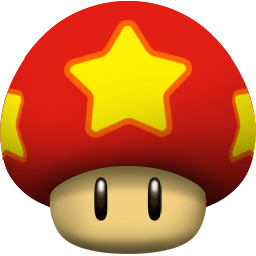
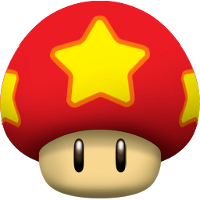
Changed size and Entity

diff --git a/Window.cpp b/Window.cpp
@@ -25,6 +25,8 @@ void Window::setup(const std::string &title) {
 void Window::create() {
     auto style = (isFullscreen ? sf::Style::Fullscreen : sf::Style::Default);
     window.create(sf::VideoMode::getDesktopMode(), windowTitle, style);
+    //Can't call getWidth here, use getProportions instead.
+    window.setView(sf::View(sf::FloatRect(0, 0, getProportions(), getHeight())));
 }
 
 void Window::destroy() {
@@ -50,7 +52,7 @@ void Window::draw() {
 
 void Window::gameLoop() {
     while (!isDone) {
-        processInput(window);
+        processInput();
         elapsed += clock.restart();
 
         for (int loops = 0; elapsed >= ms_per_update && loops < max_loops; loops++) {
@@ -64,7 +66,7 @@ void Window::gameLoop() {
 }
 
 
-void Window::processInput(sf::RenderWindow &window) {
+void Window::processInput() {
     sf::Event event;
     while (window.pollEvent(event)) {
         if (event.type == sf::Event::Closed) {
@@ -73,39 +75,25 @@ void Window::processInput(sf::RenderWindow &window) {
         } else if (event.type == sf::Event::KeyPressed && event.key.code == sf::Keyboard::F11) {
             toggleFullscreen();
         } else if (event.type == sf::Event::Resized) {
-            window.setView(sf::View(sf::FloatRect(0, 0, event.size.width, event.size.height)));
+            window.setView(sf::View(sf::FloatRect(0, 0, getProportions(), getHeight())));
         }
     }
 }
 
 
-void Window::drawSprite(sf::Sprite &sprite, sf::Vector2f size, sf::Vector2f pos, sf::Vector2f vel) {
-    size = resizeVector(size);
-    sf::Vector2u oldSize = sprite.getTexture()->getSize();
-    sprite.setScale(size.x / oldSize.x, size.y / oldSize.y);
+void Window::drawSprite(sf::Sprite &sprite, sf::Vector2f pos, sf::Vector2f vel) {
     pos.x = pos.x + vel.x * elapsed.asSeconds();
     pos.y = pos.y + vel.y * elapsed.asSeconds();
-    sprite.setPosition(resizeVector(pos));
+    sprite.setPosition(pos);
     window.draw(sprite);
 }
 
 void Window::drawEntity(Entity &entity) {
-    drawSprite(entity.getSprite(), entity.getSize(), entity.getPos(), entity.getVel());
+    drawSprite(entity.getSprite(), entity.getPos(), entity.getVel());
 }
 
 void Window::drawDrawable(sf::Drawable &drawable) {
     window.draw(drawable);
-}
-
-sf::Vector2f Window::resizeVector(const sf::Vector2f v) const {
-    sf::Vector2f r;
-    r.y = v.y * window.getSize().y / 100;
-    r.x = v.x * window.getSize().y / 100;
-    return r;
-}
-
-float Window::getProportions() const {
-    return static_cast<float>(window.getSize().x) / window.getSize().y * 100;
 }
 
 Window *Window::getInstance() {

diff --git a/Window.h b/Window.h
@@ -19,24 +19,41 @@ public:
 
     void gameLoop();
 
-    void drawSprite(sf::Sprite &sprite, sf::Vector2f size, sf::Vector2f pos, sf::Vector2f vel);
+    void drawSprite(sf::Sprite &sprite, sf::Vector2f pos, sf::Vector2f vel);
 
     void drawEntity(Entity &entity);
 
     void drawDrawable(sf::Drawable &drawable);
 
-    float getProportions() const;
-
     float getElapsed() const {
         return ms_per_update.asSeconds();
     }
 
-    sf::Vector2f resizeVector(const sf::Vector2f v) const;
+    float getScale() const {
+        return getHeight() / window.getSize().y;
+    }
+
+    static float getWidth() {
+        if (instance != nullptr) {
+            sf::Vector2u size = instance->window.getSize();
+            return getHeight() * size.x / size.y;
+        }
+        return 0;
+    }
+
+    static float getHeight() {
+        return 1000;
+    }
 
 private:
     Window();
 
     static Window *instance;
+
+    float getProportions() {
+        sf::Vector2u size = window.getSize();
+        return getHeight() * size.x / size.y;
+    }
 
     void toggleFullscreen();
 
@@ -44,7 +61,7 @@ private:
 
     void draw();
 
-    void processInput(sf::RenderWindow &window);
+    void processInput();
 
     void setup(const std::string &title);
 

diff --git a/Background.cpp b/Background.cpp
@@ -6,10 +6,9 @@
 
 Background *Background::instance = nullptr;
 
-Background::Background() : spriteSize(280, 100) {
+Background::Background() : spriteSize(2802, 1000) {
     if (!texture.loadFromFile("../Resources/background.png"))
         return;
-
     texture.setSmooth(true);
 }
 
@@ -34,15 +33,17 @@ void Background::update() {
     }
 
     // If last sprite is in on the right, the loop adds a new one.
-    while (sprites.empty() || getSpritePos(sprites.size() - 1).x + spriteSize.x <
-                              Window::getInstance()->getProportions()) {
-        sprites.push_back(sf::Sprite(texture));
+    while (sprites.empty() || getSpritePos(sprites.size() - 1).x + spriteSize.x < Window::getWidth()) {
+        sf::Sprite sprite(texture);
+        //sf::Vector2u oldSize = sprite.getTexture()->getSize();
+        //sprite.setScale(spriteSize.x / oldSize.x, spriteSize.y / oldSize.y);
+        sprites.push_back(sprite);
     }
 }
 
 void Background::draw() {
     for (auto it = sprites.begin(), end = sprites.end(); it != end; ++it) {
-        Window::getInstance()->drawSprite(*it, spriteSize, getSpritePos(it), sf::Vector2f(v, 0));
+        Window::getInstance()->drawSprite(*it, getSpritePos(it), sf::Vector2f(v, 0));
     }
 }
 

diff --git a/MainCharacter.cpp b/MainCharacter.cpp
@@ -6,13 +6,7 @@
 
 MainCharacter *MainCharacter::instance = nullptr;
 
-MainCharacter::MainCharacter() : Entity(15, 15), score(0) {
-    texture.loadFromFile("../Resources/Mushroom.png");
-    texture.setSmooth(true);
-    sprite.setTexture(texture);
-    pos.x = 10;
-    pos.y = 10;
-    log = Textbox::getInstance();
+MainCharacter::MainCharacter() : Entity("../Resources/Mushroom.png", 100, 100), score(0) {
 }
 
 void MainCharacter::update() {
@@ -20,9 +14,9 @@ void MainCharacter::update() {
     pos.y += vel.y * Window::getInstance()->getElapsed();
 
     //Borders collision
-    if (pos.y + size.y >= 100 - bottom) {
+    if (pos.y + size.y >= Window::getHeight() - bottom) {
         vel.y = 0;
-        pos.y = 100 - bottom - size.y;
+        pos.y = Window::getHeight() - bottom - size.y;
     } else if (pos.y <= top) {
         vel.y = 0;
         pos.y = top;
@@ -49,5 +43,5 @@ MainCharacter *MainCharacter::getInstance() {
 
 void MainCharacter::increaseScore() {
     score += 1;
-    log->add("You got a star. Score: " + std::to_string(score));
+    Textbox::getInstance()->add("You got a star. Score: " + std::to_string(score));
 }

diff --git a/Entity.h b/Entity.h
@@ -13,9 +13,7 @@
 
 class Entity : public Drawable {
 public:
-    Entity();
-
-    Entity(float width, float height, float x = 0, float y = 0);
+    Entity(const std::string &filename, float x = 0, float y = 0, sf::IntRect textureRect = sf::IntRect());
 
     virtual ~Entity() {};
 
@@ -23,12 +21,8 @@ public:
 
     virtual void draw() override;
 
-    const sf::Vector2f &getSize() const {
-        return size;
-    }
-
     const sf::Vector2f &getPos() const {
-        return pos;
+        return pos;//+sprite.getOrigin();
     }
 
     const sf::Vector2f &getVel() const {
@@ -42,16 +36,19 @@ public:
 protected:
     void updatePos();
 
+    sf::Texture texture;
+    sf::Sprite sprite;
     sf::Vector2f size;
     sf::Vector2f pos;
     sf::Vector2f vel;
     sf::Vector2f acc;
-    sf::Sprite sprite;
     float angle;
     float angVel;
     float angAcc;
 
 private:
+    void setTexture(const std::string &filename, sf::IntRect textureRect = sf::IntRect());
+
     static bool intersect(sf::Vector2f p0, sf::Vector2f p1, sf::Vector2f p2, sf::Vector2f p3);
 
     static int ccw(sf::Vector2f p0, sf::Vector2f p1, sf::Vector2f p2);

diff --git a/Entity.cpp b/Entity.cpp
@@ -7,13 +7,9 @@
 
 using namespace std;
 
-Entity::Entity() : angle(0), angVel(0), angAcc(0) {
-
-}
-
-Entity::Entity(float width, float height, float x, float y) : Entity() {
-    size = sf::Vector2f(width, height);
-    pos = sf::Vector2f(x, y);
+Entity::Entity(const std::string &filename, float x, float y, sf::IntRect textureRect) :
+        angle(0), angVel(0), angAcc(0), pos(x, y) {
+    setTexture(filename, textureRect);
 }
 
 void Entity::draw() {
@@ -71,4 +67,17 @@ void Entity::updatePos() {
     vel.y += acc.y * seconds;
     pos.x += vel.x * seconds;
     pos.y += vel.y * seconds;
+}
+
+void Entity::setTexture(const std::string &filename, sf::IntRect textureRect) {
+    texture.loadFromFile(filename);
+    texture.setSmooth(true);
+    sprite.setTexture(texture);
+    if (textureRect != sf::IntRect()) {
+        sprite.setTextureRect(textureRect);
+        size = sf::Vector2f(textureRect.width, textureRect.height);
+    } else {
+        sf::Vector2u textureSize = sprite.getTexture()->getSize();
+        size = sf::Vector2f(textureSize.x, textureSize.y);
+    }
 }

diff --git a/Textbox.cpp b/Textbox.cpp
@@ -24,7 +24,7 @@ void Textbox::update() {
 }
 
 void Textbox::draw() {
-    backdrop.setSize(Window::getInstance()->resizeVector(sf::Vector2f(Window::getInstance()->getProportions(), 10)));
+    backdrop.setSize(sf::Vector2f(Window::getWidth(), 100));
     Window::getInstance()->drawDrawable(backdrop);
     Window::getInstance()->drawDrawable(content);
 }
@@ -40,8 +40,10 @@ Textbox::Textbox() {
     font.loadFromFile("../Resources/FreeSerif.ttf");
     content.setFont(font);
     content.setCharacterSize(20);
+    float s = Window::getInstance()->getScale();
+    content.setScale(s, s);
     content.setColor(sf::Color::Red);
-    backdrop.setSize(sf::Vector2f(Window::getInstance()->getProportions(), 200));
+    backdrop.setSize(sf::Vector2f(Window::getWidth(), 100));
     backdrop.setFillColor(sf::Color(100, 100, 100, 100));
     backdrop.setPosition(0, 0);
 }

diff --git a/CollidableFactory.cpp b/CollidableFactory.cpp
@@ -11,9 +11,9 @@
 Collidable *CollidableFactory::createCollidable() {
     // TODO others collidable objects
     int p = rand() % 100;
-    if (p < 10)
-        return new Obstacle(Window::getInstance()->getWidth(), rand() % (100 - 30) + 10);
+    if (p < 0)
+        return new Obstacle(Window::getWidth(), rand() % ((int) Window::getHeight() - 300) + 100);
     else
-        return new Laser(Window::getInstance()->getWidth(), rand() % (100 - 30) + 10);
+        return new Laser(Window::getWidth(), rand() % ((int) Window::getHeight() - 300) + 100);
 
 }

diff --git a/Laser.cpp b/Laser.cpp
@@ -5,13 +5,9 @@
 #include "Laser.h"
 #include "Window.h"
 
-Laser::Laser(float x, float y) : Collidable(30, 5, x, y) {
-    // Shape initialization
-    texture.loadFromFile("../Resources/laser.png");
-    sprite.setTexture(texture);
-    //relVel.y = 6;
+Laser::Laser(float x, float y) : Collidable("../Resources/laser.png", x, y) {
     angVel = 0.5;
-    sprite.setOrigin(200, 0);
+    sprite.setOrigin(size.x / 2, size.y / 2);
 }
 
 void Laser::update() {

diff --git a/CollidableManager.cpp b/CollidableManager.cpp
@@ -9,7 +9,7 @@ std::list<Collidable *> CollidableManager::collidables;
 void CollidableManager::update() {
     removeCollidables();
 
-    if (collidables.empty() || collidables.back()->getPos().x < Window::getInstance()->getProportions() - 100) {
+    if (collidables.empty() || collidables.back()->getPos().x < Window::getWidth() - 1000) {
         collidables.push_back(CollidableFactory::createCollidable());
     }
 }

diff --git a/Collidable.cpp b/Collidable.cpp
@@ -7,7 +7,8 @@
 #include "Background.h"
 #include "MainCharacter.h"
 
-Collidable::Collidable(float width, float height, float x, float y) : Entity(width, height, x, y) {
+Collidable::Collidable(const std::string &filename, float x, float y, sf::IntRect textureRect) :
+        Entity(filename, x, y, textureRect) {
     originPos = sf::Vector2f(x, y);
 }
 

diff --git a/MainCharacter.h b/MainCharacter.h
@@ -27,16 +27,14 @@ private:
     MainCharacter();
 
     static MainCharacter *instance;
-    sf::Texture texture;
     Vehicle *vehicle = nullptr;
 
-    const float g = 98;
-    const float upg = 100;
+    const float g = 980;
+    const float upg = 1000;
     const float top = 0;
     const float bottom = 0;
 
     int score;
-    Textbox *log;
 };
 
 
